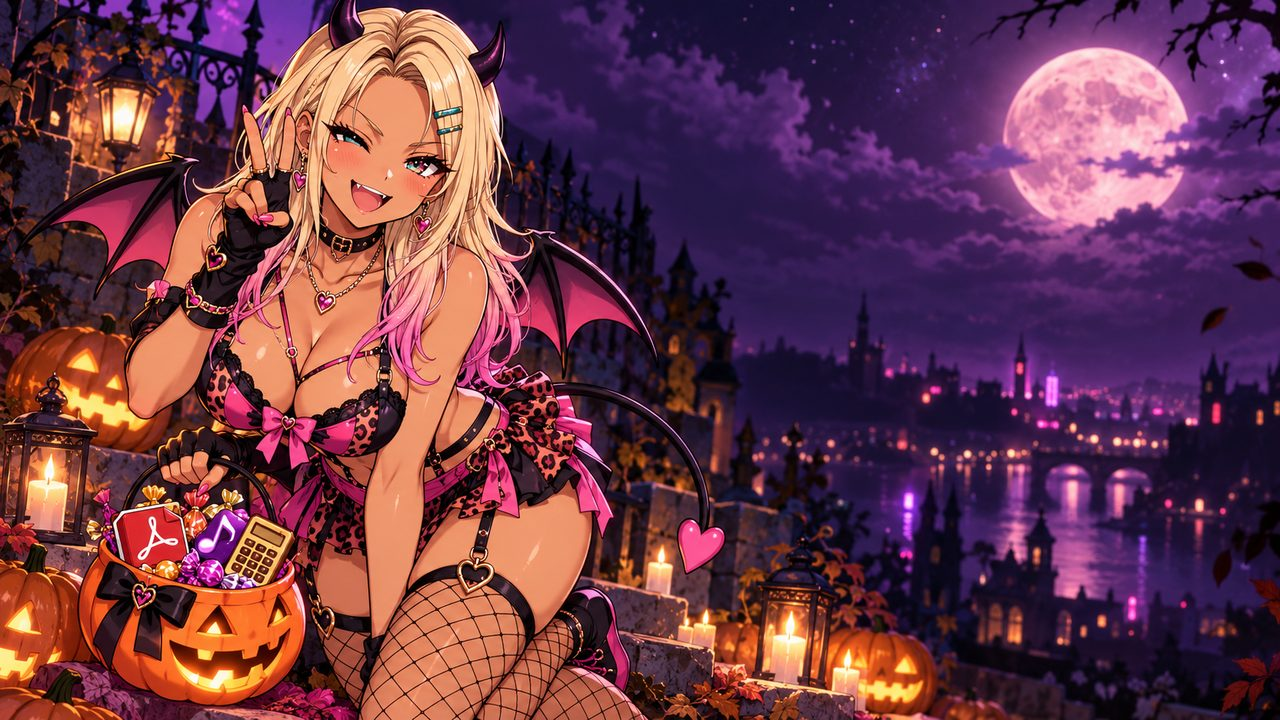
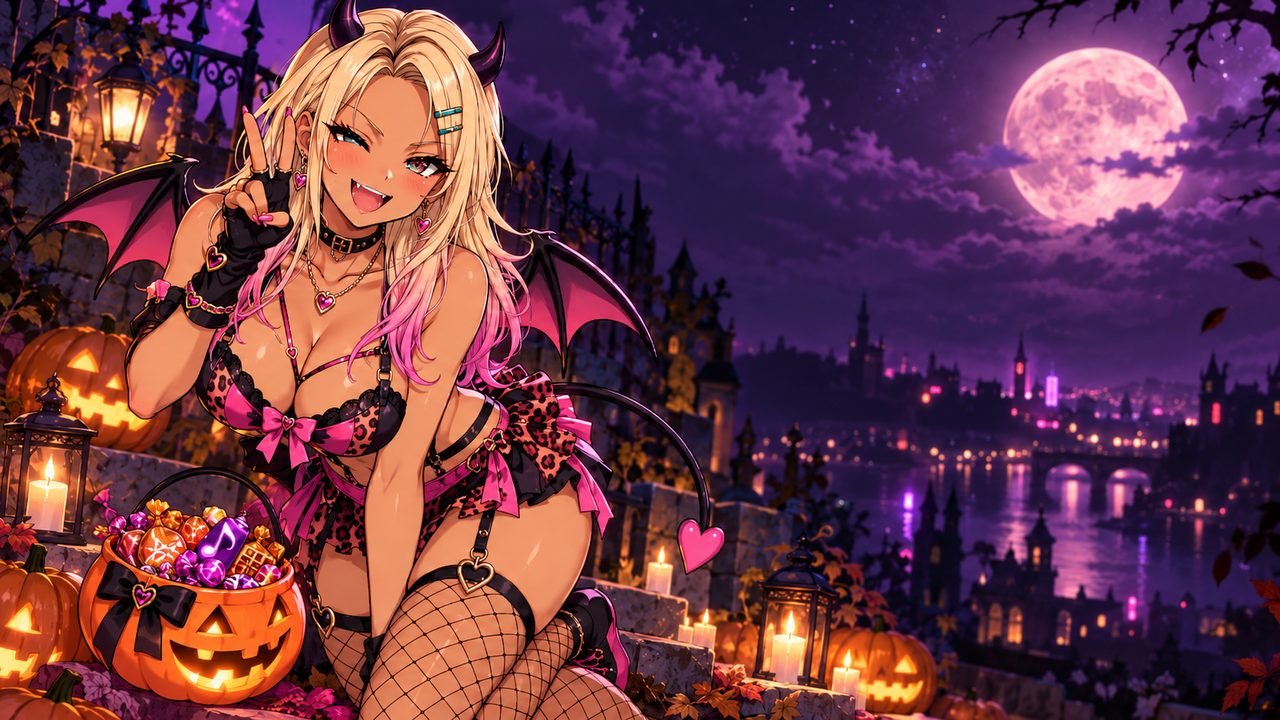
Update Halloween hero image to revised version

diff --git a/index.html b/index.html
@@ -26,7 +26,7 @@
   <link rel="icon" href="favicon.svg?v=2" type="image/svg+xml" />
   <link rel="preconnect" href="https://fonts.googleapis.com" />
   <link rel="preconnect" href="https://fonts.gstatic.com" crossorigin />
-  <link rel="preload" as="image" type="image/webp" imagesrcset="hero_halloween_768.webp 768w, hero_halloween_1280.webp 1280w, hero_halloween_1672.webp 1672w" imagesizes="(max-width: 1360px) 100vw, 1360px" fetchpriority="high" />
+  <link rel="preload" as="image" type="image/webp" imagesrcset="hero_halloween_768.webp?v=2 768w, hero_halloween_1280.webp?v=2 1280w, hero_halloween_1672.webp?v=2 1672w" imagesizes="(max-width: 1360px) 100vw, 1360px" fetchpriority="high" />
   <link rel="preload" as="image" href="abs_mart_logo_halloween.webp?v=1" />
   <link href="https://fonts.googleapis.com/css2?family=Cherry+Bomb+One&amp;family=M+PLUS+Rounded+1c:wght@400;500;700;800&amp;family=Rowdies:wght@700&amp;family=Yomogi&amp;display=swap" rel="stylesheet" />
   <link rel="stylesheet" href="style.css?v=20260922-top1" />
@@ -162,8 +162,8 @@
               <span class="sticker sticker-pop">BOO!!</span>
             </div>
             <picture>
-              <source type="image/webp" srcset="hero_halloween_768.webp 768w, hero_halloween_1280.webp 1280w, hero_halloween_1672.webp 1672w" sizes="(max-width: 1360px) 100vw, 1360px" />
-              <img class="hero-image" src="hero_halloween_1280.jpg" alt="小悪魔の仮装をしたギャルが、満月の夜にジャック・オー・ランタンとツールアイコン入りのお菓子バケツを持ってピースしているハロウィンのビジュアル" width="1672" height="941" fetchpriority="high" decoding="async" />
+              <source type="image/webp" srcset="hero_halloween_768.webp?v=2 768w, hero_halloween_1280.webp?v=2 1280w, hero_halloween_1672.webp?v=2 1672w" sizes="(max-width: 1360px) 100vw, 1360px" />
+              <img class="hero-image" src="hero_halloween_1280.jpg?v=2" alt="小悪魔の仮装をしたギャルが、満月の夜にジャック・オー・ランタンのお菓子バケツを持ってピースしているハロウィンのビジュアル" width="1672" height="941" fetchpriority="high" decoding="async" />
             </picture>
           </div>
           <div class="hero-copy">
